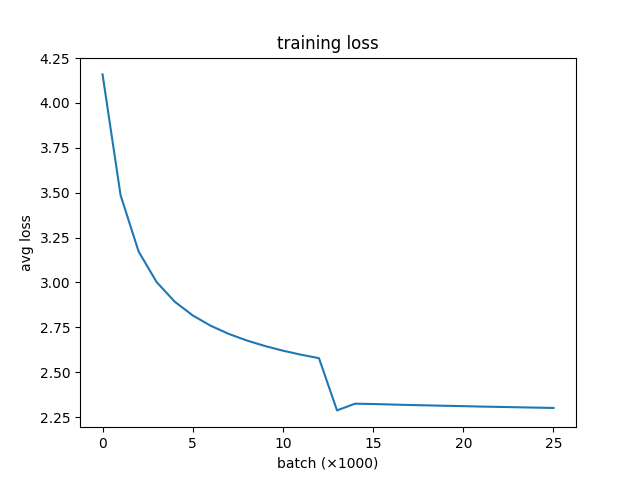
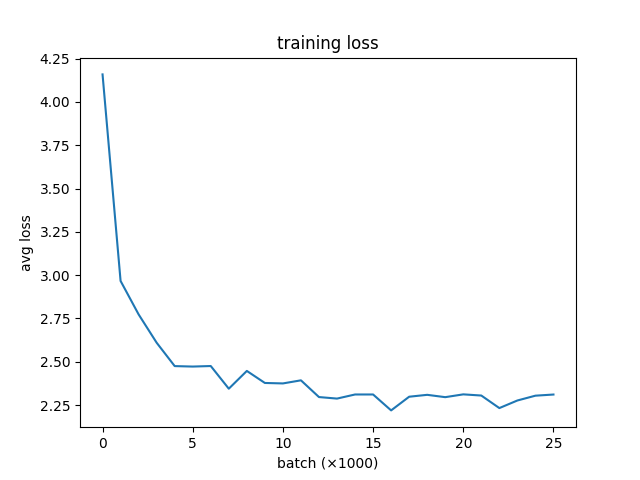
fix loss curve, clean train.py comments

diff --git a/train.py b/train.py
@@ -24,24 +24,21 @@ def main():
 
     np.random.seed(SEED)    
     print("tokenizing...")
-    tokens = tokenize(raw_text) # ["jet", "intern", "success"]
-    print(f"toatl tokens: {len(tokens):,}") # 3
+    tokens = tokenize(raw_text) 
+    print(f"toatl tokens: {len(tokens):,}") 
 
     print("building vocab...")
-    word2idx, idx2word, word_counts = build_vocab(tokens, min_count=MIN_COUNT) #word2idx = {"jet": 0, "intern": 1, "success": 2}
-    vocab_size = len(word2idx) # 3
+    word2idx, idx2word, word_counts = build_vocab(tokens, min_count=MIN_COUNT) 
+    vocab_size = len(word2idx) 
     print(f"vocab size: {vocab_size:,}")
 
-    indices = [word2idx[t] for t in tokens if t in word2idx] # indices = [0, 1, 2]  
+    indices = [word2idx[t] for t in tokens if t in word2idx] 
     
     print("intializing model...")
     model = Word2Vec(vocab_size=vocab_size, embed_dim=EMBED_DIM, lr=LR)
-    noise_dist = get_noise_distribution(word_counts, word2idx) # dist * 0.75
-    pairs = get_training_pairs(indices, window_size=WINDOW_SIZE) # (jet, intern), (jet success), (intern, jet), 
-                                                                 # (intern, success), (success, jet), (success, intern)
-                                                                 # but actually in numbers like
-                                                                 # (0, 1), (0, 2), (1, 0)
-                                                                 # (1, 2), (2, 0), (2, 1)
+    noise_dist = get_noise_distribution(word_counts, word2idx) 
+    pairs = get_training_pairs(indices, window_size=WINDOW_SIZE) 
+
     loss_history = []
     for epoch in range (EPOCHS):
         total_loss = 0.0
@@ -49,11 +46,11 @@ def main():
         np.random.shuffle(pairs)
 
         for i in tqdm(range(0, len(pairs), BATCH_SIZE), desc=f"epoch {epoch+1}"):
-            batch = pairs[i:i+BATCH_SIZE] # batch_size = 2 |=> i=0 |=> batch =  (0, 1), (0, 2), (1, 0)
+            batch = pairs[i:i+BATCH_SIZE] 
 
-            idx_cntr = np.array([p[0] for p in batch])# 1, 2, 0
-            idx_ctx  = np.array([p[1] for p in batch])# 0, 0, 1           
-            idx_ctx_neg = sample_negatives_batch(noise_dist, batch, k=NEG_SAMPLES) # some numbers
+            idx_cntr = np.array([p[0] for p in batch])
+            idx_ctx  = np.array([p[1] for p in batch])         
+            idx_ctx_neg = sample_negatives_batch(noise_dist, batch, k=NEG_SAMPLES)
 
             loss = model.train_step(idx_cntr, idx_ctx, idx_ctx_neg) 
             total_loss += loss
@@ -61,7 +58,7 @@ def main():
 
             if n_batches == 1 or (n_batches % 1000 == 0 and n_batches > 0):
                 tqdm.write(f"  batch {n_batches} | avg loss: {total_loss/n_batches:.4f}")
-                loss_history.append(round(total_loss/n_batches, 4))
+                loss_history.append(round(loss, 4))
 
         print(f"epoch {epoch+1} done | avg loss: {total_loss/n_batches:.4f}")
     
